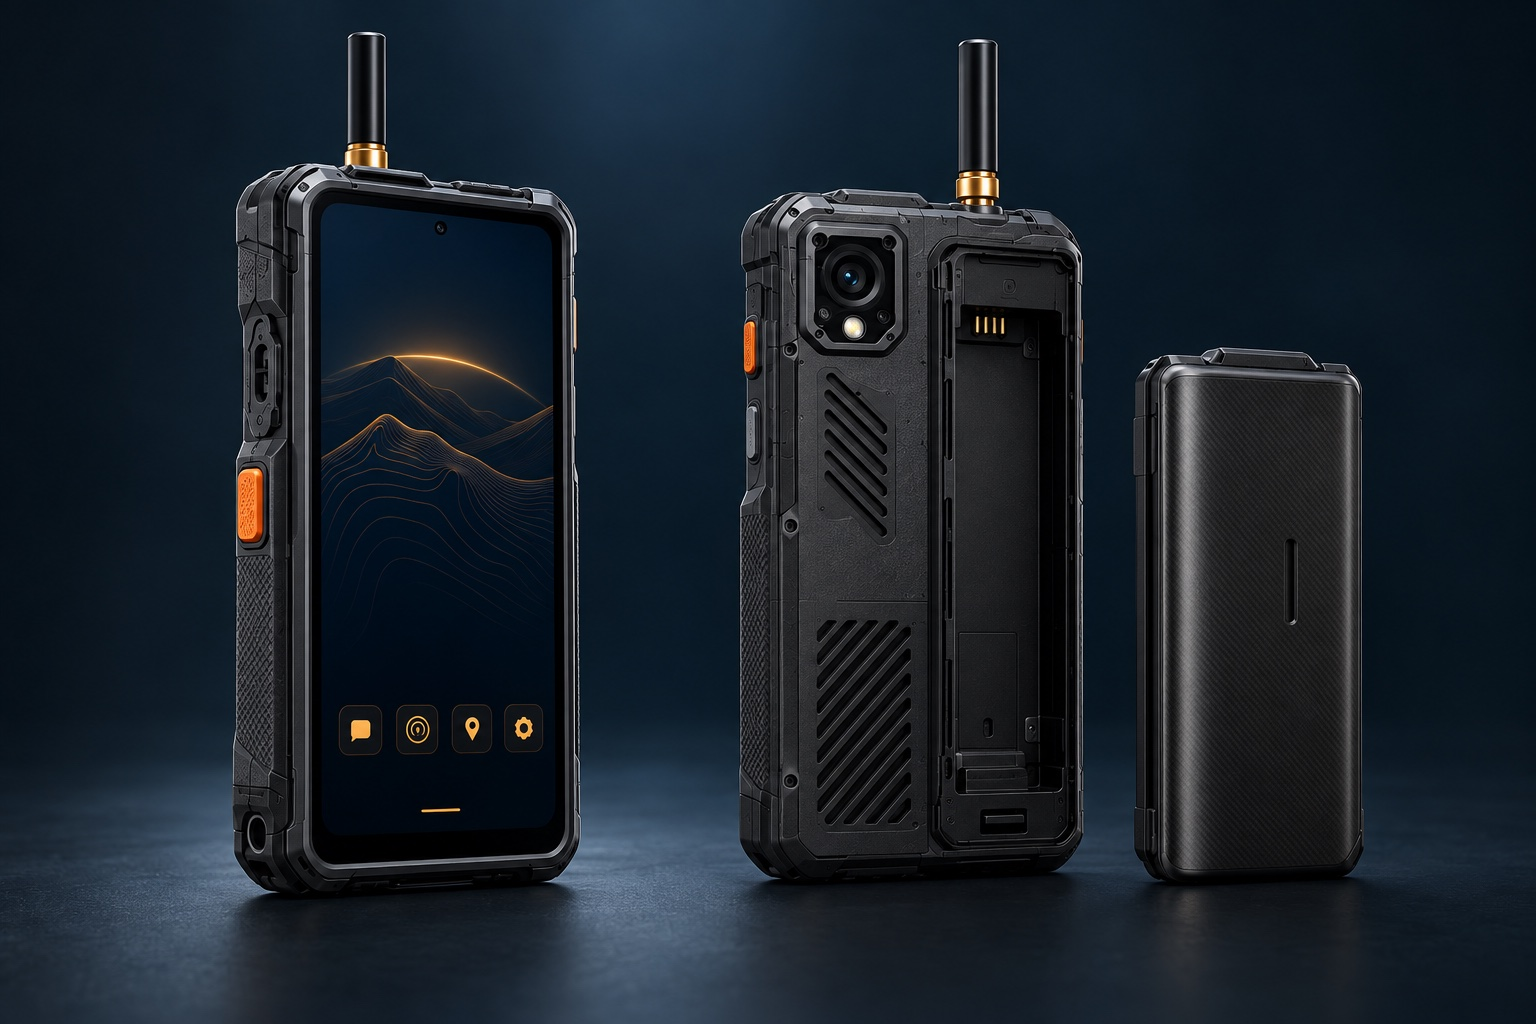
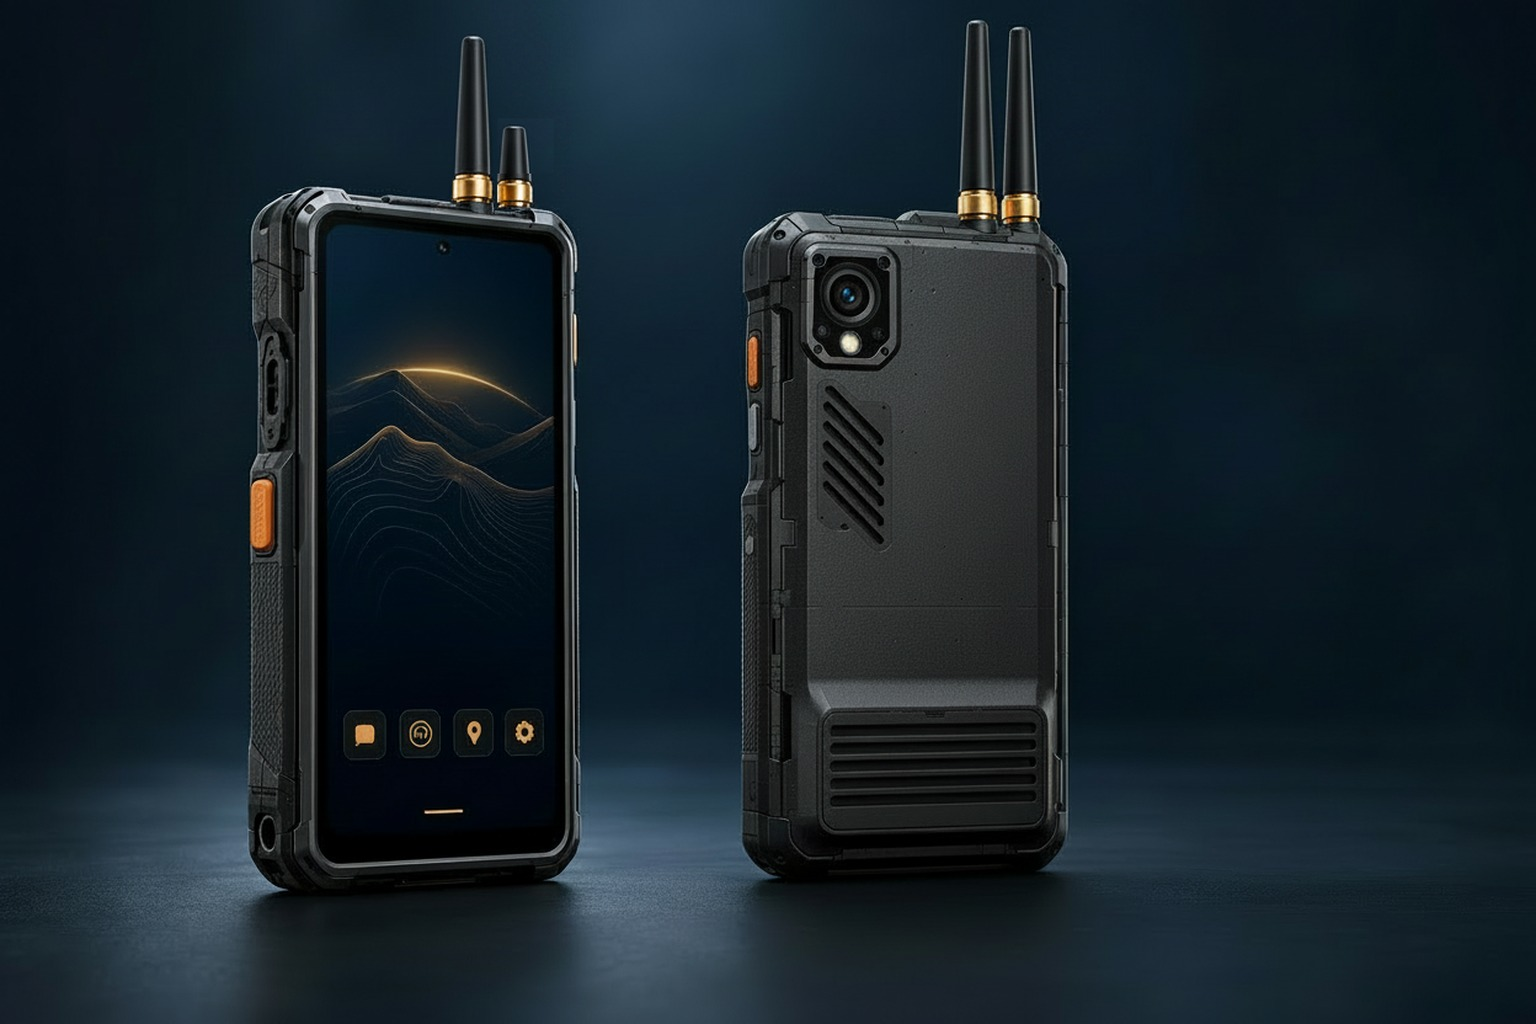
Website: the Lantern render and copy drop the battery pack
New render (Gemini 2.5 Flash Image, reference-based): the standalone pack and the open battery bay are gone, the back is one continuous machined shell, and both views show the two external antennas - taller LoRa, shorter GNSS. Copy follows: bring-your-own USB-C supply, ROCK 5B+ as the committed product board, internal CSI camera ribbon, LoRa+GNSS with the second relay radio. The third (internal) LoRa antenna is deliberately not drawn.

diff --git a/apps/sage-website/app/hardware/page.tsx b/apps/sage-website/app/hardware/page.tsx
@@ -7,28 +7,28 @@ import { LanternMark } from '@/components/lantern-mark';
 import { pageMetadata } from '@/lib/metadata';
 export const metadata: Metadata = pageMetadata(
  'SAGE Lantern — Intelligence in your hands',
- 'Meet the next SAGE Lantern design: a 6.25-inch handheld AI terminal with a replaceable battery, physical voice control and local intelligence. Explore the hardware concept.',
+ 'Meet the next SAGE Lantern design: a 6.25-inch handheld AI terminal that runs on the USB-C supply you bring, with physical voice control and local intelligence. Explore the hardware concept.',
  '/hardware/',
  'hardware.jpg',
- 'SAGE Lantern front, rear and removable battery pack — AI-generated hardware concept.',
+ 'SAGE Lantern front and rear — AI-generated hardware concept.',
 );
 const specs=[
  ['Display','6.25-inch portrait touchscreen, 720 × 1560','Panel selected and in hand'],
- ['Compute','Orange Pi 5 Plus (RK3588) with a neural accelerator','Prototype platform, bench bring-up'],
- ['Power','10,000 mAh USB-C pack in a serviceable tray','Standard pack, not a custom cell'],
+ ['Compute','Radxa ROCK 5B+ (12 GB) with a neural accelerator','Committed for the fleet; bring-up next'],
+ ['Power','Bring your own USB-C supply (PD, or a fixed 5 V/4 A source)','No pack or charger is bundled'],
  ['Interaction','Physical hold-to-talk control and I2S microphone','Voice input, on-screen answers'],
- ['Camera','16 MP camera module','Visual-question direction in development'],
- ['Connectivity','915 MHz LoRa radio with GNSS','Antenna fit and range testing to come'],
+ ['Camera','Internal camera on a CSI ribbon','Visual-question direction in development'],
+ ['Connectivity','915 MHz LoRa and GNSS, plus a second LoRa radio for relay','Two external antennas; range testing to come'],
  ['Enclosure','90 × 182 × 38 mm printed PETG shell, ten parts','v1.3; first-article print next'],
 ];
 export default function Hardware(){return <>
  <Link prefetch={false} className="skip-link" href="#hardware-main">Skip to content</Link><SiteHeader/>
  <main id="hardware-main">
-  <section className="hardware-hero wrap"><Link prefetch={false} className="hardware-back" href="/">SAGE / <span>LANTERN</span></Link><div className="hardware-title"><div><div className="eyebrow section-label">LOCAL INTELLIGENCE. REAL-WORLD CURIOSITY.</div><h1>A bigger world.<br/><span className="serif">In your hands.</span></h1></div><div className="hardware-hero-note"><LanternMark/><p>Meet the next chapter<br/>of SAGE Lantern.</p></div></div><div className="hardware-intro"><p>A handheld AI terminal for asking, exploring and making sense of the world around you. Designed to take useful intelligence beyond the places with reliable internet.</p><Link prefetch={false} className="text-link" href="#design">Inside the design <ArrowDown size={18}/></Link></div><figure className="hardware-product"><Image unoptimized priority src="/images/hardware.jpg" alt="Concept render of a rugged SAGE Lantern showing the 6.25-inch portrait screen, rear camera and removable battery pack" width={1536} height={1024}/><figcaption>Next-generation design direction · AI-generated concept, not a production photograph</figcaption></figure><div className="hardware-stats"><div><strong>6.25<span>″</span></strong><p>A taller screen to read and explore</p></div><div><Battery/><strong>10,000 mAh</strong><p>A standard USB-C pack, replaceable</p></div><div><AudioLines/><strong>Hold. Ask. Explore.</strong><p>A physical button for your next question</p></div></div></section>
-  <section className="section wrap" id="design"><div className="eyebrow section-label">DESIGNED AROUND EVERYDAY CURIOSITY</div><div className="hardware-design-head"><h2>Pick it up.<br/><span className="muted">Follow a question.</span></h2><p className="body-copy">We’re bringing the essentials into one handheld form: a readable screen, a tactile voice button, a camera and a battery you can replace.</p></div><div className="hardware-features">{[
+  <section className="hardware-hero wrap"><Link prefetch={false} className="hardware-back" href="/">SAGE / <span>LANTERN</span></Link><div className="hardware-title"><div><div className="eyebrow section-label">LOCAL INTELLIGENCE. REAL-WORLD CURIOSITY.</div><h1>A bigger world.<br/><span className="serif">In your hands.</span></h1></div><div className="hardware-hero-note"><LanternMark/><p>Meet the next chapter<br/>of SAGE Lantern.</p></div></div><div className="hardware-intro"><p>A handheld AI terminal for asking, exploring and making sense of the world around you. Designed to take useful intelligence beyond the places with reliable internet.</p><Link prefetch={false} className="text-link" href="#design">Inside the design <ArrowDown size={18}/></Link></div><figure className="hardware-product"><Image unoptimized priority src="/images/hardware.jpg" alt="Concept render of a rugged SAGE Lantern showing the 6.25-inch portrait screen, rear camera and two antennas" width={1536} height={1024}/><figcaption>Next-generation design direction · AI-generated concept, not a production photograph</figcaption></figure><div className="hardware-stats"><div><strong>6.25<span>″</span></strong><p>A taller screen to read and explore</p></div><div><Battery/><strong>USB-C</strong><p>Bring your own supply — no pack bundled</p></div><div><AudioLines/><strong>Hold. Ask. Explore.</strong><p>A physical button for your next question</p></div></div></section>
+  <section className="section wrap" id="design"><div className="eyebrow section-label">DESIGNED AROUND EVERYDAY CURIOSITY</div><div className="hardware-design-head"><h2>Pick it up.<br/><span className="muted">Follow a question.</span></h2><p className="body-copy">We’re bringing the essentials into one handheld form: a readable screen, a tactile voice button, a camera and power you bring yourself.</p></div><div className="hardware-features">{[
    [AudioLines,'A button that invites a question.','Hold to speak, then read the answer on the screen. A simple physical action keeps the interface approachable.'],
    [ScanEye,'Bring the world into the conversation.','A rear camera supports the visual-question direction: show what you’re looking at, then ask about it.'],
-   [Battery,'Replace the pack. Keep the device.','A standard 10,000 mAh USB-C pack sits in its own tray rather than a custom cell, so the power source can be replaced without rebuilding the device.'],
+   [Battery,'Bring your own power.','The Lantern runs on a standard USB-C supply — PD, or a fixed 5 V/4 A source — instead of a custom cell or a bundled pack, so power is something you already own.'],
    [Wrench,'Made to be understood.','A ventilated, serviceable enclosure puts assembly, maintenance and repair into the design from the beginning.'],
   ].map(([Icon,title,body])=>{const FeatureIcon=Icon as typeof AudioLines;return <article key={title as string}><FeatureIcon/><h3>{title as string}</h3><p>{body as string}</p></article>})}</div></section>
   <section className="hardware-compute"><div className="wrap"><Cpu/><div><div className="eyebrow section-label">INTELLIGENCE CLOSE TO YOU</div><h2>The thinking happens<br/><span className="serif">right here.</span></h2><p className="body-copy">Lantern’s local AI runs on the device. The aim is to make everyday learning and problem-solving useful even when the internet isn’t available.</p><Link prefetch={false} className="text-link" href="/#mission">The mission behind the machine <ArrowUpRight size={18}/></Link></div></div></section>

diff --git a/apps/sage-website/app/page.tsx b/apps/sage-website/app/page.tsx
@@ -36,7 +36,7 @@ export default function Home() {
       </section>
       <section className="section wrap" id="mission"><div className="mission-heading"><div className="eyebrow section-label">01 — THE MISSION</div><span className="small-note">Democratising intelligence.</span></div><div className="mission-grid"><h2>Talent is everywhere.<br/><span className="muted">Opportunity<br/>should be, too.</span></h2><div><p className="intro">A child with another question. A maker with an idea. A community finding its own answers.</p><p className="body-copy">AI can open new ways to learn and create. Those possibilities should reach people whose connectivity is unreliable and whose resources are limited.</p><p className="body-copy">We’re building tools communities can own, use and help shape. Starting with intelligence that travels with you.</p><Link prefetch={false} className="text-link" href="#lantern">It starts with a Lantern <ArrowUpRight size={18}/></Link></div></div></section>
 
-      <section className="lantern-section" id="lantern"><div className="wrap"><div className="lantern-introduction"><div className="eyebrow section-label">02 — MEET SAGE LANTERN</div><h2>A little device.<br/><span className="serif">A bigger world.</span></h2><p>A question can change how you see the world.<br/>Imagine taking that possibility with you.</p><ArrowDown size={22} aria-hidden="true"/></div><figure className="lantern-reveal"><Image unoptimized src="/images/hardware.jpg" alt="SAGE Lantern hardware concept showing the front, rear and removable battery pack" width="1536" height="1024" loading="lazy"/><figcaption>Next-generation hardware design concept · AI illustration</figcaption><span className="image-badge">SAGE LANTERN / THE NEXT CHAPTER</span></figure><div className="lantern-overview"><div><div className="eyebrow section-label">INTELLIGENCE, IN YOUR HANDS</div><h3>Made for your<br/>next question.</h3><p className="body-copy">A 6.25-inch handheld AI companion with a battery you can replace, designed for life beyond reliable internet. Ask a question, explore an idea, or work through a problem — with intelligence running right there in your hands.</p><Link prefetch={false} className="text-link" href="/hardware/">Explore the hardware <ArrowUpRight size={18}/></Link></div><div><div className="feature-list">{[
+      <section className="lantern-section" id="lantern"><div className="wrap"><div className="lantern-introduction"><div className="eyebrow section-label">02 — MEET SAGE LANTERN</div><h2>A little device.<br/><span className="serif">A bigger world.</span></h2><p>A question can change how you see the world.<br/>Imagine taking that possibility with you.</p><ArrowDown size={22} aria-hidden="true"/></div><figure className="lantern-reveal"><Image unoptimized src="/images/hardware.jpg" alt="SAGE Lantern hardware concept showing the front and rear" width="1536" height="1024" loading="lazy"/><figcaption>Next-generation hardware design concept · AI illustration</figcaption><span className="image-badge">SAGE LANTERN / THE NEXT CHAPTER</span></figure><div className="lantern-overview"><div><div className="eyebrow section-label">INTELLIGENCE, IN YOUR HANDS</div><h3>Made for your<br/>next question.</h3><p className="body-copy">A 6.25-inch handheld AI companion that runs on the USB-C supply you bring, designed for life beyond reliable internet. Ask a question, explore an idea, or work through a problem — with intelligence running right there in your hands.</p><Link prefetch={false} className="text-link" href="/hardware/">Explore the hardware <ArrowUpRight size={18}/></Link></div><div><div className="feature-list">{[
           [AudioLines,'Speak your curiosity','Hold to talk. Read the answer. Keep exploring.'],
           [LockKeyhole,'Keep your world yours','Local intelligence, with private-by-default knowledge and deliberate sharing.'],
           [Radio,'Connect the dots','Every Lantern is intended to join a local MeshCore network for short messages and shared knowledge.'],
